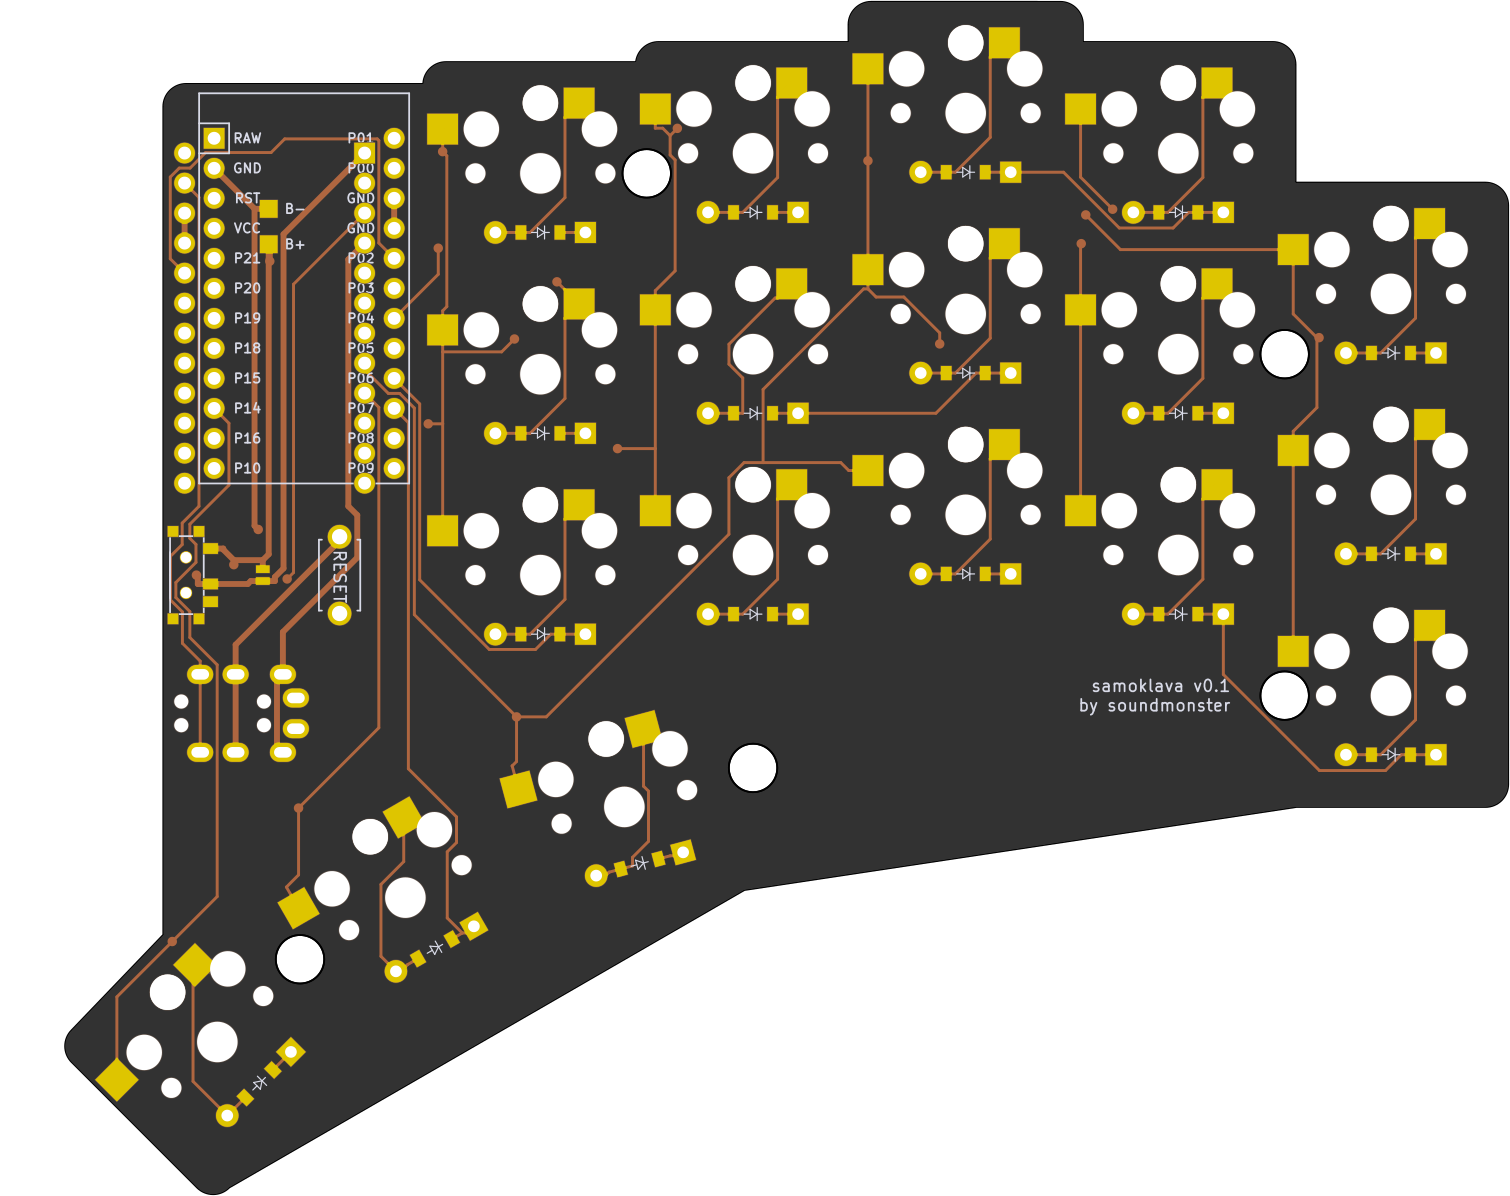
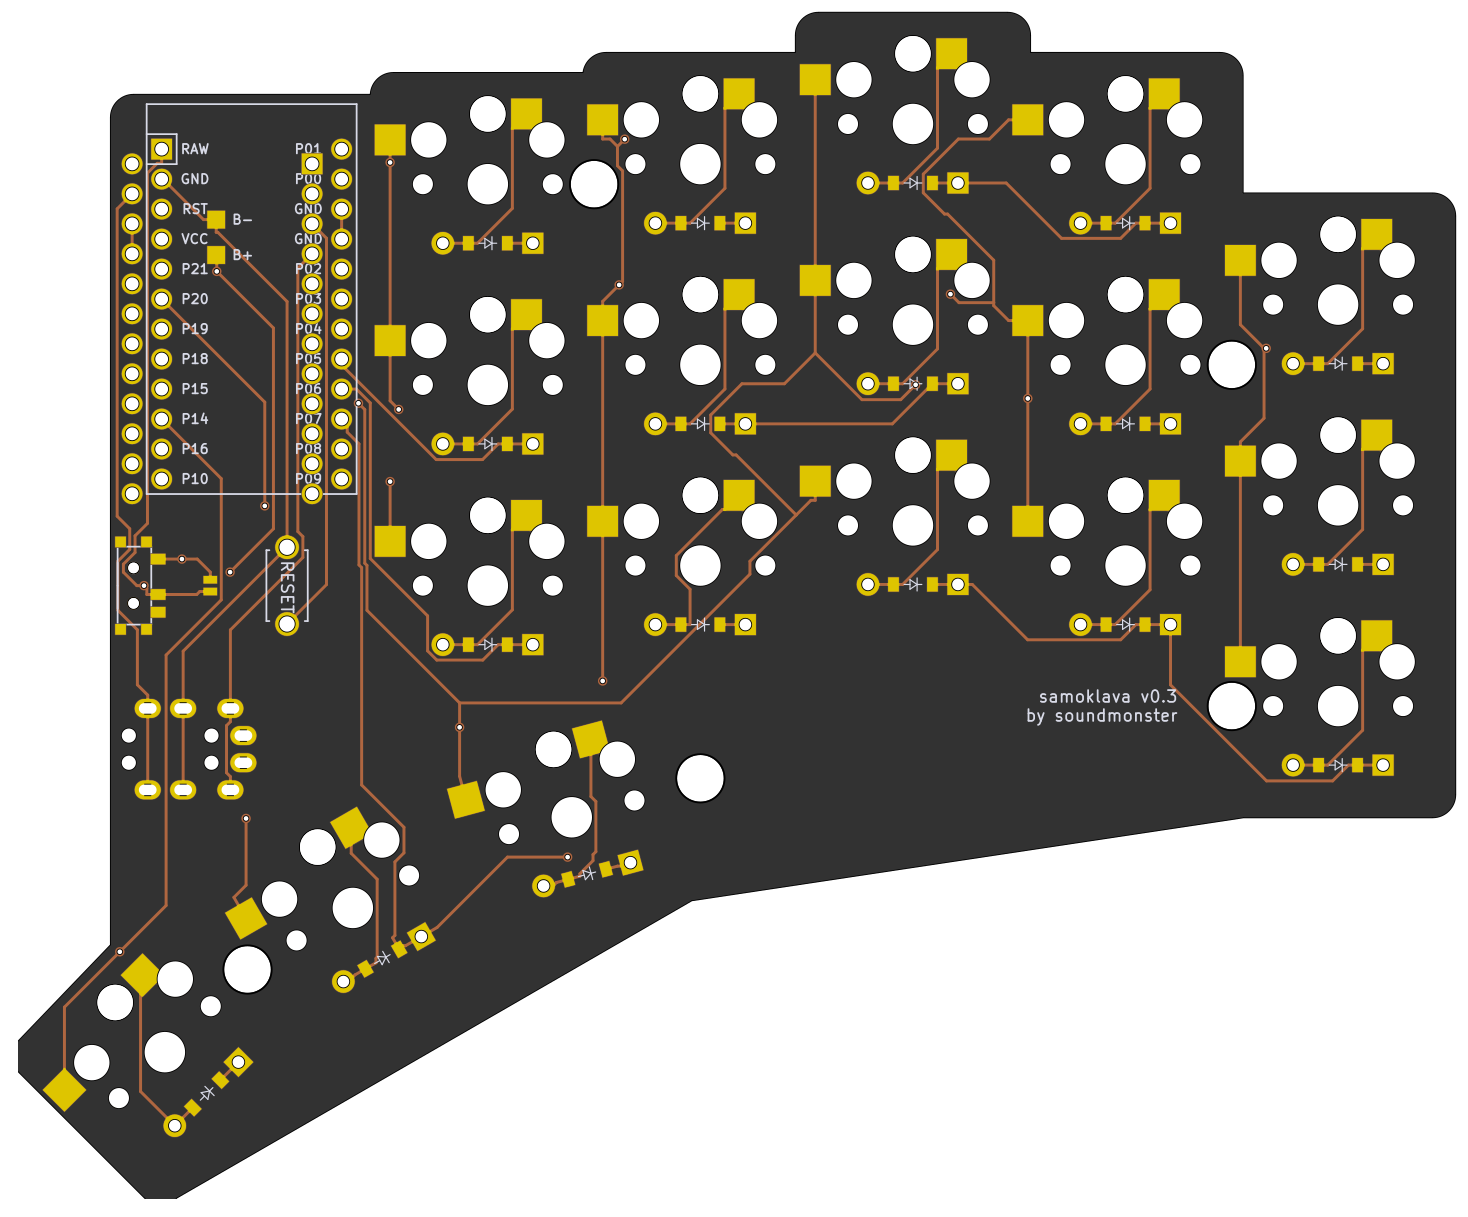
Put Promicro silk prints on the right sides

Changed region(s): [[0.0, 0.0, 1.0, 1.0], [0.6437, 0.6806, 0.8277, 0.7115], [0.4905, 0.7115, 0.6437, 0.7425]]

diff --git a/footprints/promicro_flippable.js b/footprints/promicro_flippable.js
@@ -1,0 +1,143 @@
+// Arduino ProMicro atmega32u4au
+// Params
+//  orientation: default is down
+//    if down, power led will face the pcb
+//    if up, power led will face away from pcb
+
+module.exports = {
+  params: {
+    designator: 'MCU',
+    orientation: 'down',
+    silk_layer: 'F.SilkS',
+    RAW: {type: 'net', value: 'RAW'},
+    GND: {type: 'net', value: 'GND'},
+    RST: {type: 'net', value: 'RST'},
+    VCC: {type: 'net', value: 'VCC'},
+    P21: {type: 'net', value: 'P21'},
+    P20: {type: 'net', value: 'P20'},
+    P19: {type: 'net', value: 'P19'},
+    P18: {type: 'net', value: 'P18'},
+    P15: {type: 'net', value: 'P15'},
+    P14: {type: 'net', value: 'P14'},
+    P16: {type: 'net', value: 'P16'},
+    P10: {type: 'net', value: 'P10'},
+    P1: {type: 'net', value: 'P1'},
+    P0: {type: 'net', value: 'P0'},
+    P2: {type: 'net', value: 'P2'},
+    P3: {type: 'net', value: 'P3'},
+    P4: {type: 'net', value: 'P4'},
+    P5: {type: 'net', value: 'P5'},
+    P6: {type: 'net', value: 'P6'},
+    P7: {type: 'net', value: 'P7'},
+    P8: {type: 'net', value: 'P8'},
+    P9: {type: 'net', value: 'P9'}
+  },
+  body: p => {
+    const standard = `
+      (module ProMicro (layer F.Cu) (tedit 5B307E4C)
+      ${p.at /* parametric position */}
+
+      ${'' /* footprint reference */}
+      (fp_text reference "${p.ref}" (at 0 0) (layer ${p.silk_layer}) ${p.ref_hide} (effects (font (size 1.27 1.27) (thickness 0.15))))
+      (fp_text value "" (at 0 0) (layer ${p.silk_layer}) hide (effects (font (size 1.27 1.27) (thickness 0.15))))
+    
+      ${''/* illustration of the (possible) USB port overhang */}
+      (fp_line (start -19.304 -3.81) (end -14.224 -3.81) (layer Dwgs.User) (width 0.15))
+      (fp_line (start -19.304 3.81) (end -19.304 -3.81) (layer Dwgs.User) (width 0.15))
+      (fp_line (start -14.224 3.81) (end -19.304 3.81) (layer Dwgs.User) (width 0.15))
+      (fp_line (start -14.224 -3.81) (end -14.224 3.81) (layer Dwgs.User) (width 0.15))
+    
+      ${''/* component outline */}
+      (fp_line (start -17.78 8.89) (end 15.24 8.89) (layer ${p.silk_layer}) (width 0.15))
+      (fp_line (start 15.24 8.89) (end 15.24 -8.89) (layer ${p.silk_layer}) (width 0.15))
+      (fp_line (start 15.24 -8.89) (end -17.78 -8.89) (layer ${p.silk_layer}) (width 0.15))
+      (fp_line (start -17.78 -8.89) (end -17.78 8.89) (layer ${p.silk_layer}) (width 0.15))
+      `
+    function pins(def_neg, def_pos, silk_layer, font_effect) {
+      return `
+        ${''/* extra border around "RAW", in case the rectangular shape is not distinctive enough */}
+        (fp_line (start -15.24 ${def_pos}6.35) (end -12.7 ${def_pos}6.35) (layer ${silk_layer}) (width 0.15))
+        (fp_line (start -15.24 ${def_pos}6.35) (end -15.24 ${def_pos}8.89) (layer ${silk_layer}) (width 0.15))
+        (fp_line (start -12.7 ${def_pos}6.35) (end -12.7 ${def_pos}8.89) (layer ${silk_layer}) (width 0.15))
+      
+        ${''/* pin names */}
+        (fp_text user RAW (at -13.97 ${def_pos}4.8 ${p.rot + 90}) (layer ${silk_layer}) (effects (font (size 0.8 0.8) (thickness 0.15)) ${font_effect}))
+        (fp_text user GND (at -11.43 ${def_pos}4.8 ${p.rot + 90}) (layer ${silk_layer}) (effects (font (size 0.8 0.8) (thickness 0.15)) ${font_effect}))
+        (fp_text user RST (at -8.89 ${def_pos}4.8 ${p.rot + 90}) (layer ${silk_layer}) (effects (font (size 0.8 0.8) (thickness 0.15)) ${font_effect}))
+        (fp_text user VCC (at -6.35 ${def_pos}4.8 ${p.rot + 90}) (layer ${silk_layer}) (effects (font (size 0.8 0.8) (thickness 0.15)) ${font_effect}))
+        (fp_text user P21 (at -3.81 ${def_pos}4.8 ${p.rot + 90}) (layer ${silk_layer}) (effects (font (size 0.8 0.8) (thickness 0.15)) ${font_effect}))
+        (fp_text user P20 (at -1.27 ${def_pos}4.8 ${p.rot + 90}) (layer ${silk_layer}) (effects (font (size 0.8 0.8) (thickness 0.15)) ${font_effect}))
+        (fp_text user P19 (at 1.27 ${def_pos}4.8 ${p.rot + 90}) (layer ${silk_layer}) (effects (font (size 0.8 0.8) (thickness 0.15)) ${font_effect}))
+        (fp_text user P18 (at 3.81 ${def_pos}4.8 ${p.rot + 90}) (layer ${silk_layer}) (effects (font (size 0.8 0.8) (thickness 0.15)) ${font_effect}))
+        (fp_text user P15 (at 6.35 ${def_pos}4.8 ${p.rot + 90}) (layer ${silk_layer}) (effects (font (size 0.8 0.8) (thickness 0.15)) ${font_effect}))
+        (fp_text user P14 (at 8.89 ${def_pos}4.8 ${p.rot + 90}) (layer ${silk_layer}) (effects (font (size 0.8 0.8) (thickness 0.15)) ${font_effect}))
+        (fp_text user P16 (at 11.43 ${def_pos}4.8 ${p.rot + 90}) (layer ${silk_layer}) (effects (font (size 0.8 0.8) (thickness 0.15)) ${font_effect}))
+        (fp_text user P10 (at 13.97 ${def_pos}4.8 ${p.rot + 90}) (layer ${silk_layer}) (effects (font (size 0.8 0.8) (thickness 0.15)) ${font_effect}))
+      
+        (fp_text user P01 (at -13.97 ${def_neg}4.8 ${p.rot + 90}) (layer ${silk_layer}) (effects (font (size 0.8 0.8) (thickness 0.15)) ${font_effect}))
+        (fp_text user P00 (at -11.43 ${def_neg}4.8 ${p.rot + 90}) (layer ${silk_layer}) (effects (font (size 0.8 0.8) (thickness 0.15)) ${font_effect}))
+        (fp_text user GND (at -8.89 ${def_neg}4.8 ${p.rot + 90}) (layer ${silk_layer}) (effects (font (size 0.8 0.8) (thickness 0.15)) ${font_effect}))
+        (fp_text user GND (at -6.35 ${def_neg}4.8 ${p.rot + 90}) (layer ${silk_layer}) (effects (font (size 0.8 0.8) (thickness 0.15)) ${font_effect}))
+        (fp_text user P02 (at -3.81 ${def_neg}4.8 ${p.rot + 90}) (layer ${silk_layer}) (effects (font (size 0.8 0.8) (thickness 0.15)) ${font_effect}))
+        (fp_text user P03 (at -1.27 ${def_neg}4.8 ${p.rot + 90}) (layer ${silk_layer}) (effects (font (size 0.8 0.8) (thickness 0.15)) ${font_effect}))
+        (fp_text user P04 (at 1.27 ${def_neg}4.8 ${p.rot + 90}) (layer ${silk_layer}) (effects (font (size 0.8 0.8) (thickness 0.15)) ${font_effect}))
+        (fp_text user P05 (at 3.81 ${def_neg}4.8 ${p.rot + 90}) (layer ${silk_layer}) (effects (font (size 0.8 0.8) (thickness 0.15)) ${font_effect}))
+        (fp_text user P06 (at 6.35 ${def_neg}4.8 ${p.rot + 90}) (layer ${silk_layer}) (effects (font (size 0.8 0.8) (thickness 0.15)) ${font_effect}))
+        (fp_text user P07 (at 8.89 ${def_neg}4.8 ${p.rot + 90}) (layer ${silk_layer}) (effects (font (size 0.8 0.8) (thickness 0.15)) ${font_effect}))
+        (fp_text user P08 (at 11.43 ${def_neg}4.8 ${p.rot + 90}) (layer ${silk_layer}) (effects (font (size 0.8 0.8) (thickness 0.15)) ${font_effect}))
+        (fp_text user P09 (at 13.97 ${def_neg}4.8 ${p.rot + 90}) (layer ${silk_layer}) (effects (font (size 0.8 0.8) (thickness 0.15)) ${font_effect}))
+      
+        ${''/* and now the actual pins */}
+        (pad 1 thru_hole rect (at -13.97 ${def_pos}7.62 ${p.rot}) (size 1.7526 1.7526) (drill 1.0922) (layers *.Cu *.SilkS *.Mask) ${p.RAW.str})
+        (pad 2 thru_hole circle (at -11.43 ${def_pos}7.62 0) (size 1.7526 1.7526) (drill 1.0922) (layers *.Cu *.SilkS *.Mask) ${p.GND.str})
+        (pad 3 thru_hole circle (at -8.89 ${def_pos}7.62 0) (size 1.7526 1.7526) (drill 1.0922) (layers *.Cu *.SilkS *.Mask) ${p.RST.str})
+        (pad 4 thru_hole circle (at -6.35 ${def_pos}7.62 0) (size 1.7526 1.7526) (drill 1.0922) (layers *.Cu *.SilkS *.Mask) ${p.VCC.str})
+        (pad 5 thru_hole circle (at -3.81 ${def_pos}7.62 0) (size 1.7526 1.7526) (drill 1.0922) (layers *.Cu *.SilkS *.Mask) ${p.P21.str})
+        (pad 6 thru_hole circle (at -1.27 ${def_pos}7.62 0) (size 1.7526 1.7526) (drill 1.0922) (layers *.Cu *.SilkS *.Mask) ${p.P20.str})
+        (pad 7 thru_hole circle (at 1.27 ${def_pos}7.62 0) (size 1.7526 1.7526) (drill 1.0922) (layers *.Cu *.SilkS *.Mask) ${p.P19.str})
+        (pad 8 thru_hole circle (at 3.81 ${def_pos}7.62 0) (size 1.7526 1.7526) (drill 1.0922) (layers *.Cu *.SilkS *.Mask) ${p.P18.str})
+        (pad 9 thru_hole circle (at 6.35 ${def_pos}7.62 0) (size 1.7526 1.7526) (drill 1.0922) (layers *.Cu *.SilkS *.Mask) ${p.P15.str})
+        (pad 10 thru_hole circle (at 8.89 ${def_pos}7.62 0) (size 1.7526 1.7526) (drill 1.0922) (layers *.Cu *.SilkS *.Mask) ${p.P14.str})
+        (pad 11 thru_hole circle (at 11.43 ${def_pos}7.62 0) (size 1.7526 1.7526) (drill 1.0922) (layers *.Cu *.SilkS *.Mask) ${p.P16.str})
+        (pad 12 thru_hole circle (at 13.97 ${def_pos}7.62 0) (size 1.7526 1.7526) (drill 1.0922) (layers *.Cu *.SilkS *.Mask) ${p.P10.str})
+        
+        (pad 13 thru_hole circle (at -13.97 ${def_neg}7.62 0) (size 1.7526 1.7526) (drill 1.0922) (layers *.Cu *.SilkS *.Mask) ${p.P1.str})
+        (pad 14 thru_hole circle (at -11.43 ${def_neg}7.62 0) (size 1.7526 1.7526) (drill 1.0922) (layers *.Cu *.SilkS *.Mask) ${p.P0.str})
+        (pad 15 thru_hole circle (at -8.89 ${def_neg}7.62 0) (size 1.7526 1.7526) (drill 1.0922) (layers *.Cu *.SilkS *.Mask) ${p.GND.str})
+        (pad 16 thru_hole circle (at -6.35 ${def_neg}7.62 0) (size 1.7526 1.7526) (drill 1.0922) (layers *.Cu *.SilkS *.Mask) ${p.GND.str})
+        (pad 17 thru_hole circle (at -3.81 ${def_neg}7.62 0) (size 1.7526 1.7526) (drill 1.0922) (layers *.Cu *.SilkS *.Mask) ${p.P2.str})
+        (pad 18 thru_hole circle (at -1.27 ${def_neg}7.62 0) (size 1.7526 1.7526) (drill 1.0922) (layers *.Cu *.SilkS *.Mask) ${p.P3.str})
+        (pad 19 thru_hole circle (at 1.27 ${def_neg}7.62 0) (size 1.7526 1.7526) (drill 1.0922) (layers *.Cu *.SilkS *.Mask) ${p.P4.str})
+        (pad 20 thru_hole circle (at 3.81 ${def_neg}7.62 0) (size 1.7526 1.7526) (drill 1.0922) (layers *.Cu *.SilkS *.Mask) ${p.P5.str})
+        (pad 21 thru_hole circle (at 6.35 ${def_neg}7.62 0) (size 1.7526 1.7526) (drill 1.0922) (layers *.Cu *.SilkS *.Mask) ${p.P6.str})
+        (pad 22 thru_hole circle (at 8.89 ${def_neg}7.62 0) (size 1.7526 1.7526) (drill 1.0922) (layers *.Cu *.SilkS *.Mask) ${p.P7.str})
+        (pad 23 thru_hole circle (at 11.43 ${def_neg}7.62 0) (size 1.7526 1.7526) (drill 1.0922) (layers *.Cu *.SilkS *.Mask) ${p.P8.str})
+        (pad 24 thru_hole circle (at 13.97 ${def_neg}7.62 0) (size 1.7526 1.7526) (drill 1.0922) (layers *.Cu *.SilkS *.Mask) ${p.P9.str})
+      `
+    }
+    if(p.orientation == 'down' && p.silk_layer == 'F.SilkS') {
+      return `
+        ${standard}
+        ${pins('-', '', 'F.SilkS', '')})
+        `
+    } else if(p.orientation == 'down' && p.silk_layer == 'B.SilkS') {
+      return `
+        ${standard}
+        ${pins('-', '', 'B.SilkS', '(justify mirror)')})
+        `
+    } else if(p.orientation == 'up' && p.silk_layer == 'F.SilkS') {
+      return `
+        ${standard}
+        ${pins('', '-', 'F.SilkS', '')})
+        `
+    } else if(p.orientation == 'up' && p.silk_layer == 'B.SilkS') {
+      return `
+        ${standard}
+        ${pins('', '-', 'B.SilkS', '(justify mirror)')})
+        `
+    } else {
+      throw new Error(`Invalid combination of orientation "${p.orientation}" and silk layer "${p.silk_layer}"; allowed values are up/down and F.SilkS/B.SilkS respectivelly`)
+    }
+  }
+}
+ 
